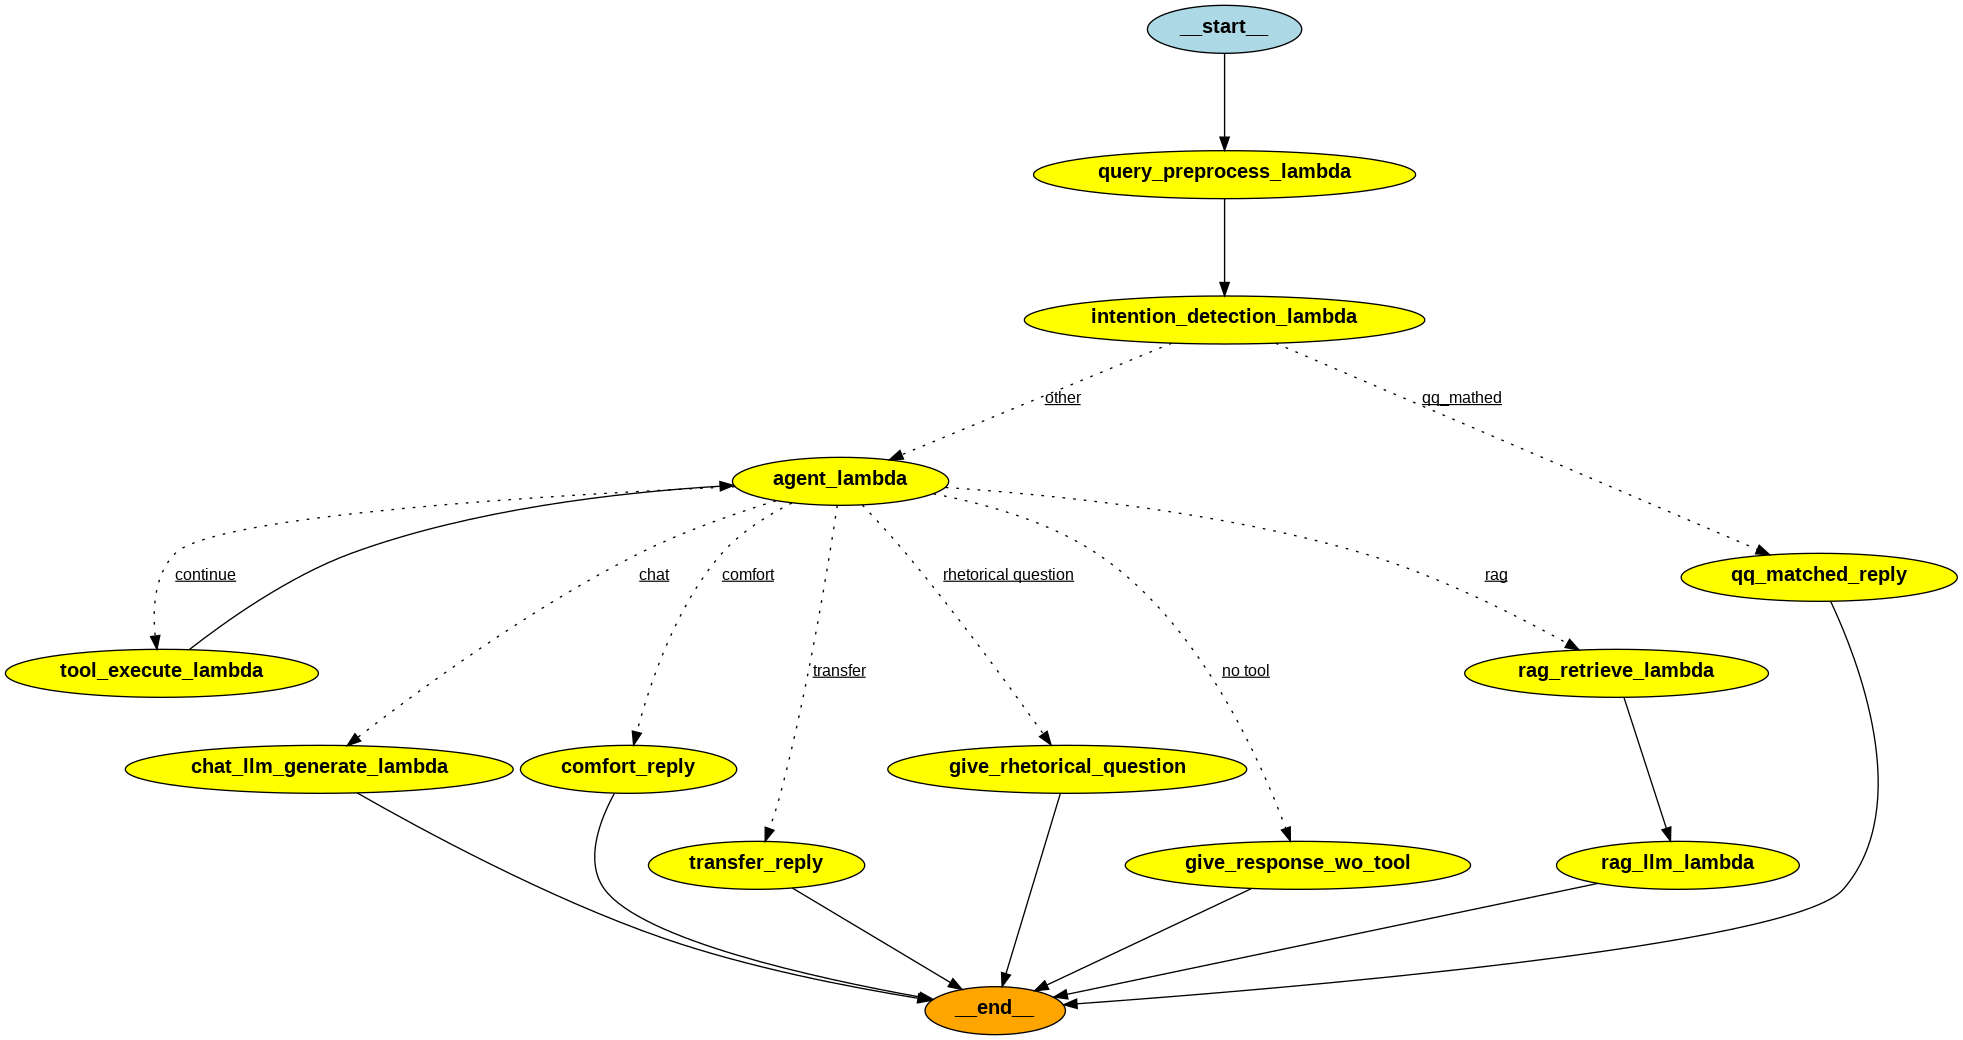
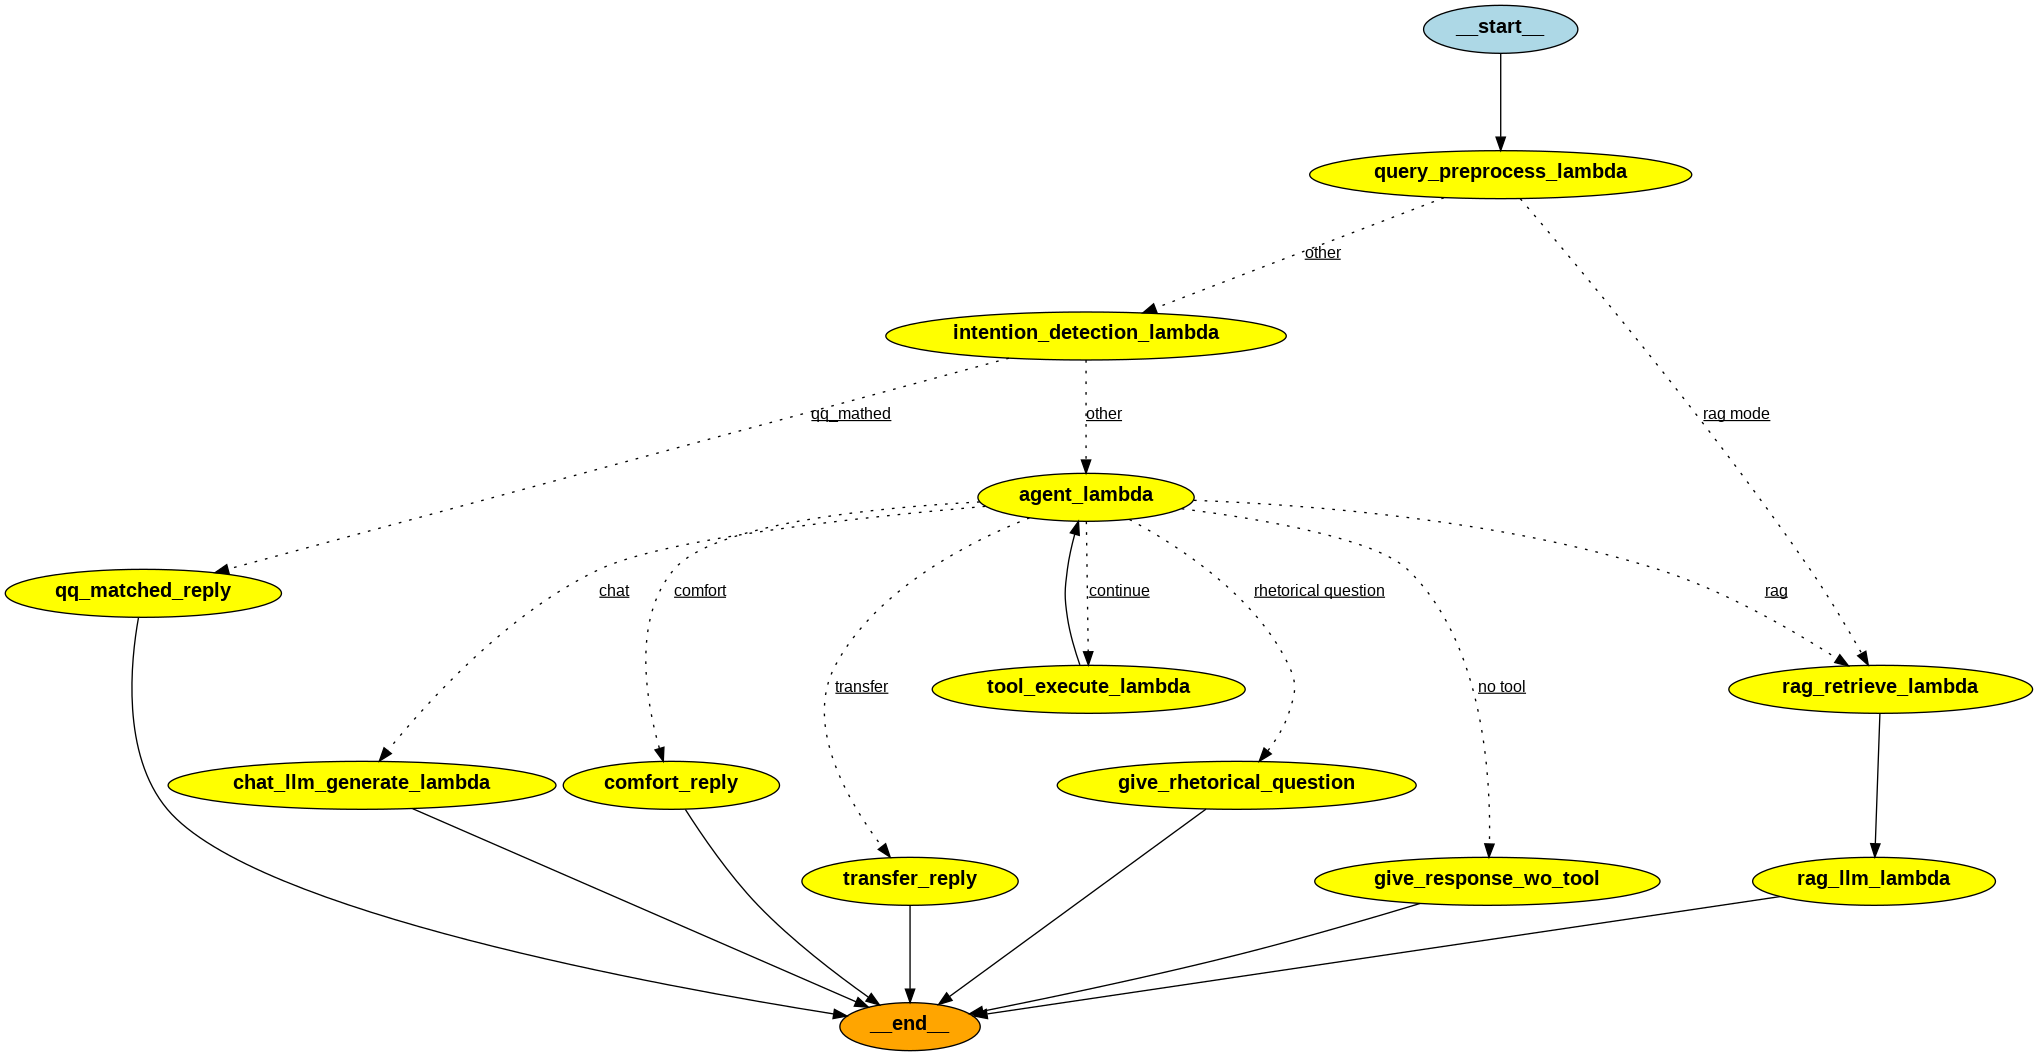
pr modify

diff --git a/source/lambda/online/lambda_main/main_utils/online_entries/common_entry.py b/source/lambda/online/lambda_main/main_utils/online_entries/common_entry.py
@@ -31,7 +31,6 @@ class ChatbotState(TypedDict):
     answer: Any  # final answer
     current_monitor_infos: str 
     extra_response: Annotated[dict,update_nest_dict]
-    default_mode: bool = True   # yuanbo mode
     contexts: str = None
     current_tools: list #
     
@@ -70,16 +69,6 @@ def intention_detection_lambda(state: ChatbotState):
         "current_tools": current_tools + ['give_rhetorical_question'],
         "intent_type":"other"
         }
-
-@node_monitor_wrapper
-def rag_retrieve_lambda(state: ChatbotState):
-    # call retrivever 
-    return None 
-
-
-@node_monitor_wrapper
-def rag_llm_lambda(state:ChatbotState):
-    return None 
 
 
 @node_monitor_wrapper
@@ -251,6 +240,12 @@ def qq_matched_reply(state:ChatbotState):
 # define edges #
 ################
 
+def query_route(state:dict):
+    if state['chatbot_config']['chatbot_mode'] == 'rag_mode':
+        return "rag_mode"
+    else:
+        return "other"
+
 def intent_route(state:dict):
     return state['intent_type']
 
@@ -300,7 +295,7 @@ def build_graph():
     
     # add all edges
     workflow.set_entry_point("query_preprocess_lambda")
-    workflow.add_edge("query_preprocess_lambda","intention_detection_lambda")
+    # workflow.add_edge("query_preprocess_lambda","intention_detection_lambda")
     workflow.add_edge("intention_detection_lambda","agent_lambda")
     workflow.add_edge("tool_execute_lambda","agent_lambda")
     workflow.add_edge("rag_retrieve_lambda","rag_llm_lambda")
@@ -313,6 +308,16 @@ def build_graph():
     workflow.add_edge("rag_retrieve_lambda","rag_llm_lambda")
     workflow.add_edge("rag_llm_lambda",END)
     workflow.add_edge("qq_matched_reply",END)
+    
+    # add conditional edges
+    workflow.add_conditional_edges(
+        "query_preprocess_lambda",
+        query_route,
+        {
+            "rag mode": 'rag_retrieve_lambda',
+            "other": "intention_detection_lambda"
+        }
+    )
 
     # add conditional edges
     workflow.add_conditional_edges(
@@ -379,7 +384,7 @@ def common_entry(event_body):
         "agent_chat_history": chat_history + [{"role":"user","content":query}],
         "ws_connection_id":ws_connection_id,
         "debug_infos": {},
-        "extra_response": {}
+        "extra_response": {},
     })
 
     return {"answer":response['answer'],**response["extra_response"]}

diff --git a/source/lambda/online/lambda_main/test/main_local_test.py b/source/lambda/online/lambda_main/test/main_local_test.py
@@ -93,24 +93,10 @@ def generate_answer(query,
 
 def test():
     generate_answer(
-        "What is lihoyo's most famous game?",
-        stream=True,
-        chatbot_config={
-            "agent_config":{
-                "model_id":"anthropic.claude-3-sonnet-20240229-v1:0",
-                "model_kwargs": {"temperature":0.0,"max_tokens":4096},
-                "tools":[{"name":"give_final_response"},{"name":"search_lihoyo"}]
-        },
-        }
-    )
-
-
-def test_yb_mode():
-    generate_answer(
         "hi",
         stream=True,
         chatbot_config={
-            "mode": "yb_mode",
+            # "chatbot_mode": "rag_mode",
             "query_process_config":{
                 "conversation_query_rewrite_config":{
                     "model_id": "anthropic.claude-3-sonnet-20240229-v1:0"
@@ -141,5 +127,5 @@ def test_yb_mode():
 
 
 if __name__ == "__main__":
-    test_yb_mode()
+    test()
     

diff --git a/source/lambda/online/lambda_llm_generate/llm_generate_utils/llm_utils/llm_chains/tool_calling_chain_claude_xml.py b/source/lambda/online/lambda_llm_generate/llm_generate_utils/llm_utils/llm_chains/tool_calling_chain_claude_xml.py
@@ -251,7 +251,7 @@ class Claude2ToolCallingChain(LLMChain):
             model_id=cls.model_id,
             model_kwargs=model_kwargs,
         )
-        chain = tool_calling_template | RunnableLambda(lambda x: print(x.messages) or x.messages ) | llm | RunnableLambda(lambda message:cls.parse_tools_from_ai_message(message,tools=tools))
+        chain = tool_calling_template | RunnableLambda(lambda x: x.messages ) | llm | RunnableLambda(lambda message:cls.parse_tools_from_ai_message(message,tools=tools))
         
         return chain
 

diff --git a/source/lambda/online/lambda_main/main_utils/parse_config.py b/source/lambda/online/lambda_main/main_utils/parse_config.py
@@ -3,7 +3,7 @@ import copy
 import logging
 import os
 
-from common_utils.constant import RerankerType
+from common_utils.constant import RerankerType,ChatbotMode
 
 
 # update nest dict
@@ -24,6 +24,7 @@ def parse_common_entry_config(chatbot_config):
     llm_model_id = chatbot_config.get("llm_model_id", llm_model_id)
 
     default_chatbot_config = {
+        "chatbot_mode": ChatbotMode.other,
         "query_process_config":{
             "conversation_query_rewrite_config":{
             }

diff --git a/source/lambda/online/layer_logic/common_utils/constant.py b/source/lambda/online/layer_logic/common_utils/constant.py
@@ -1,9 +1,7 @@
 class ConstantBase:
-
     @classmethod
     def has_value(cls, value):
         return value in list(cls.__dict__.values())
-
 
 class EntryType(ConstantBase):
     COMMON = "common"
@@ -86,5 +84,5 @@ class StreamMessageType(ConstantBase):
 
 
 class ChatbotMode(ConstantBase):
-    yb_mode = "yb_mode"  # origin from yuanbo
-    tool_mode = "tool_mode"  # tool based chatbot
+    rag_mode = "rag_mode"  # origin from yuanbo
+    other = "other"  # tool based chatbot

diff --git a/source/lambda/online/layer_logic/common_utils/lambda_invoke_utils.py b/source/lambda/online/layer_logic/common_utils/lambda_invoke_utils.py
@@ -192,7 +192,8 @@ def send_trace(trace_info:str):
         send_to_ws_client(
             message={
                         "message_type":StreamMessageType.MONITOR,
-                        "message":trace_info
+                        "message":trace_info,
+                        "created_time": time.time()
                     },
             ws_connection_id=_ws_connection_id
         )

diff --git a/source/lambda/online/functions/tools.py b/source/lambda/online/functions/tools.py
@@ -143,7 +143,7 @@ tool_manager.register_tool(
 
 
 
-##### yuanbo default tools #########
+##### default tools #########
 tool_manager.register_tool({
     "name": "service_availability",
     "lambda_name": "xxxx",
